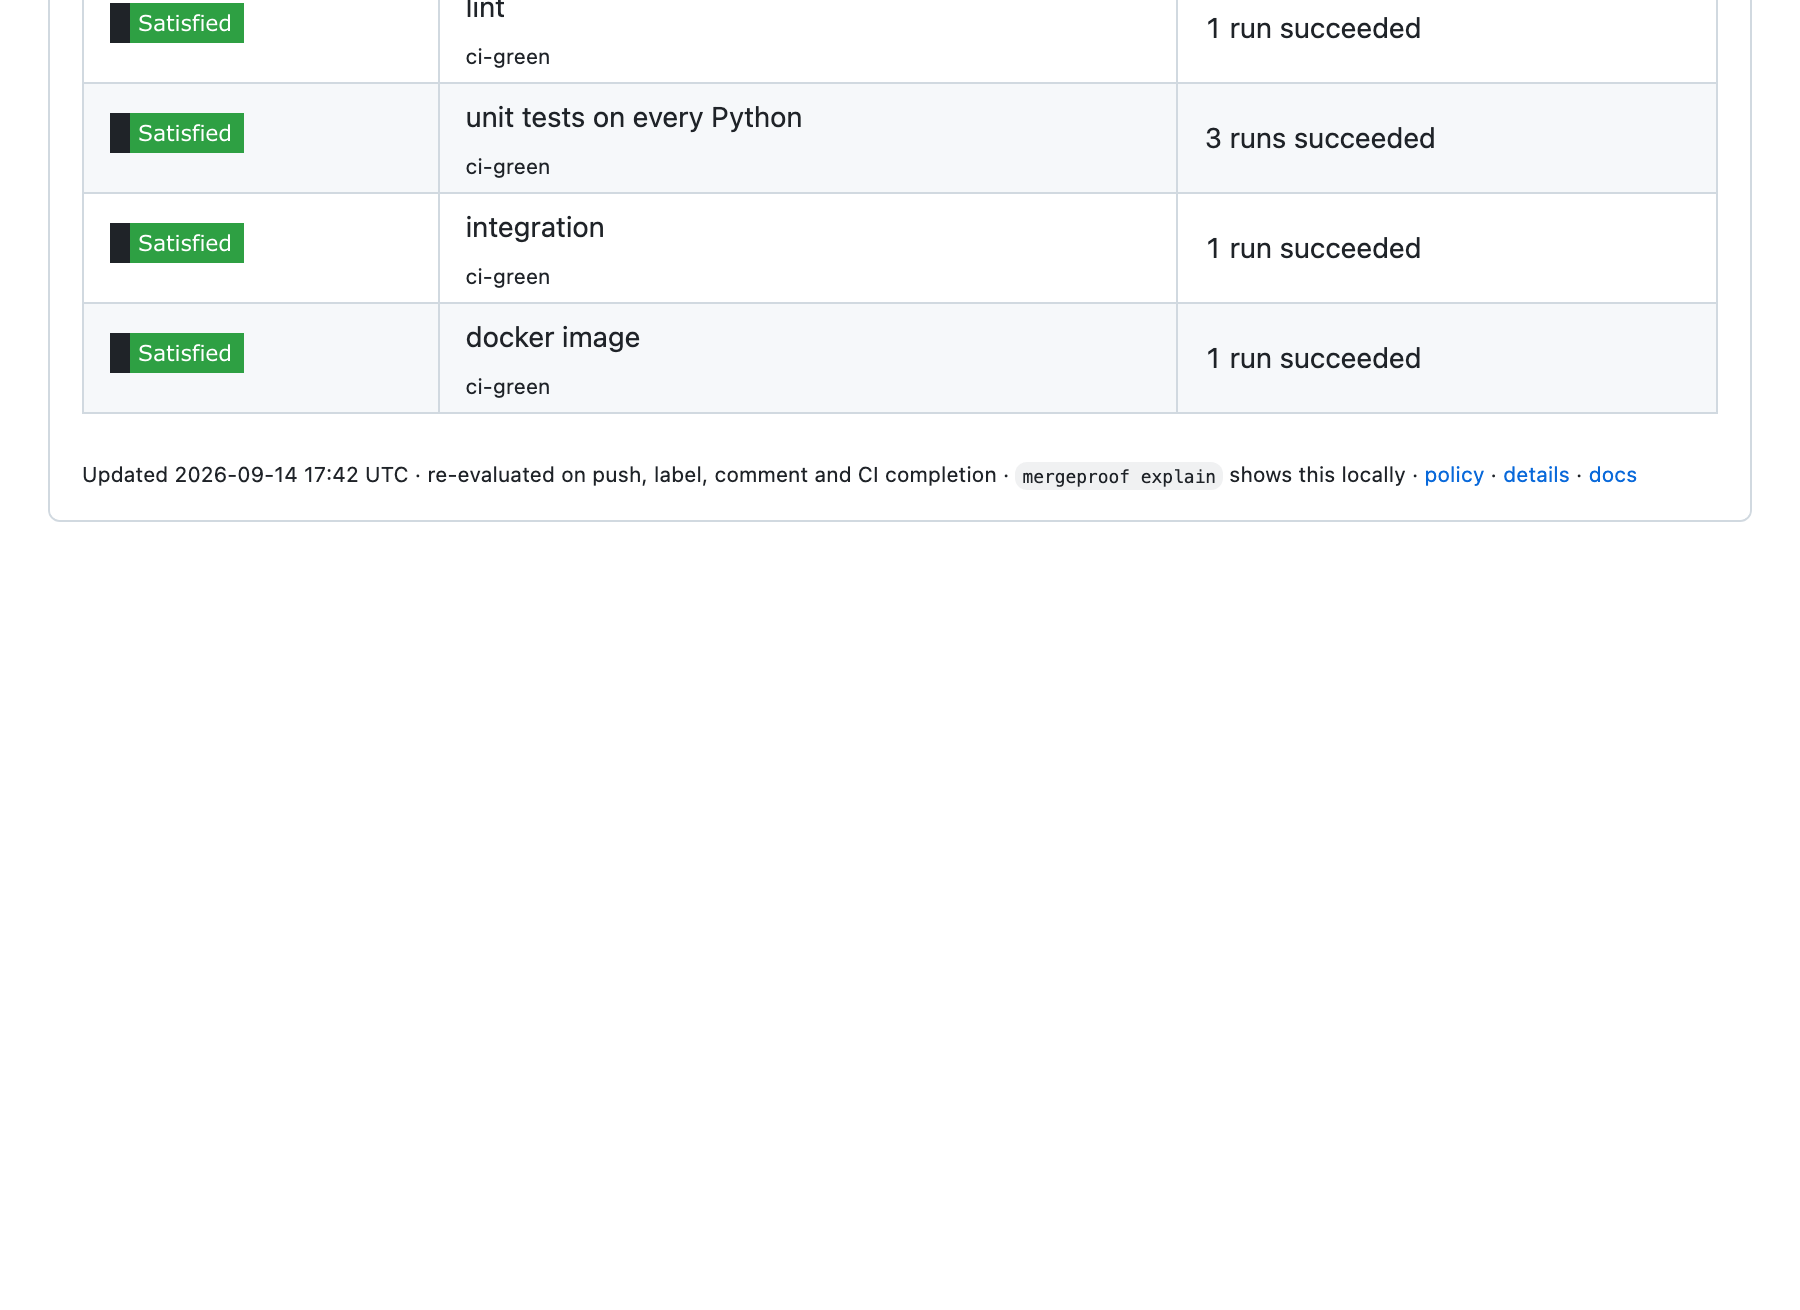
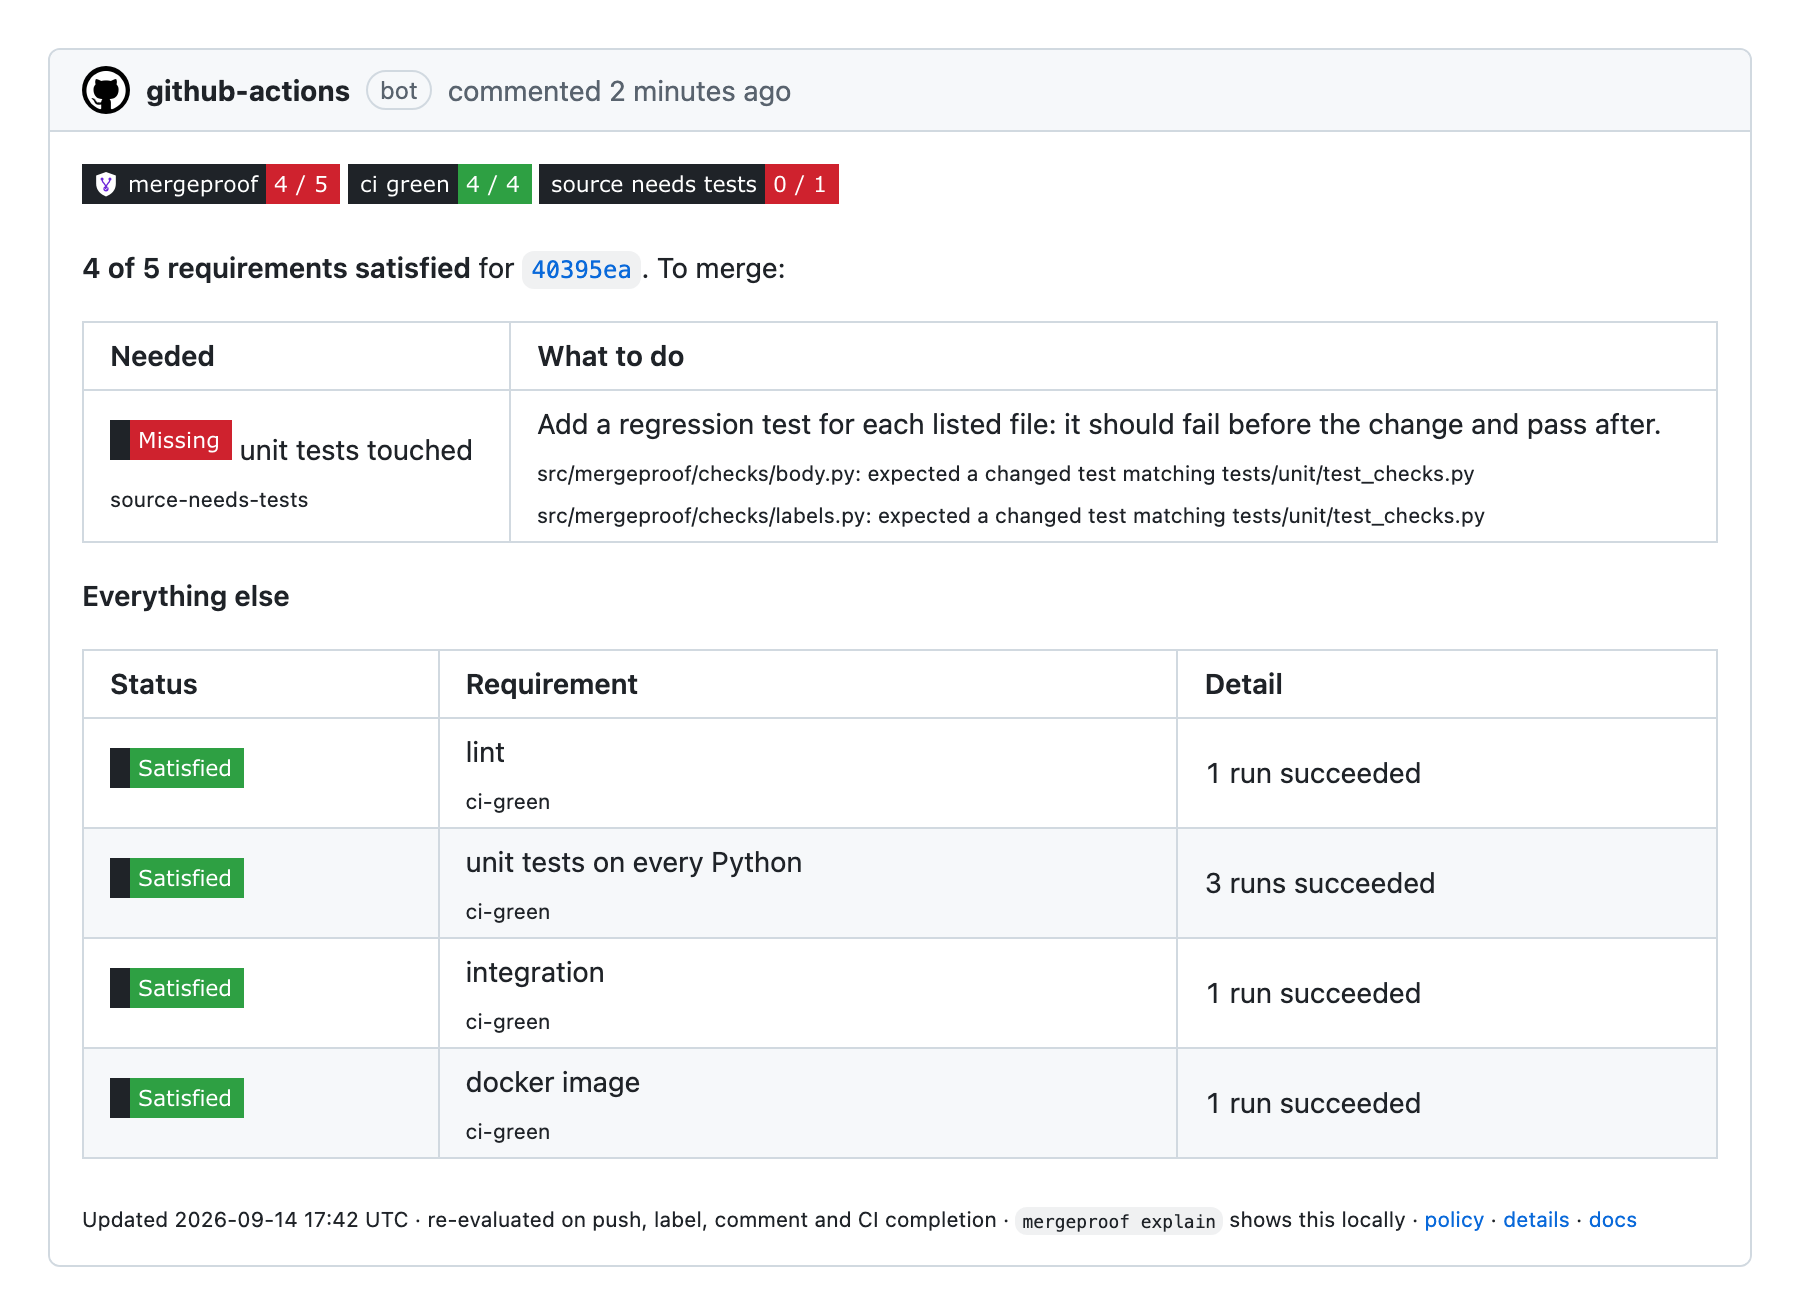
docs(readme): size screenshots to their content; plain-text mermaid labels

diff --git a/README.md b/README.md
@@ -37,16 +37,16 @@ coding agents what to produce before they open the PR.
 
 ```mermaid
 flowchart LR
-    policy["<b>mergeproof.yaml</b><br/>rules: when a change touches X,<br/>it must prove Y"]
-    agent["contributor or coding agent<br/><code>mergeproof explain</code>"]
-    pr["pull request<br/>diff · CI runs · evidence block · reviews"]
-    gate["<b>mergeproof</b> action"]
-    verifiers["verifiers<br/>http · Langfuse · Braintrust · yours"]
-    out["scorecard comment<br/>commit status <code>mergeproof</code><br/>review comments on the files"]
+    policy["mergeproof.yaml<br/>when a change touches X, it must prove Y"]
+    agent["contributor or coding agent<br/>mergeproof explain"]
+    pr["pull request<br/>diff, CI runs, evidence block, reviews"]
+    gate["mergeproof action"]
+    verifiers["verifiers<br/>http, Langfuse, Braintrust, yours"]
+    out["scorecard comment<br/>commit status: mergeproof<br/>review comments on the files"]
 
     policy --> agent --> pr --> gate --> out
     policy --> gate
-    gate <-.->|links are looked up<br/>at their source| verifiers
+    gate -. links are looked up at their source .-> verifiers
 ```
 
 - **One policy file.** A rule pairs a `when` (paths, labels, title, base branch) with what it
